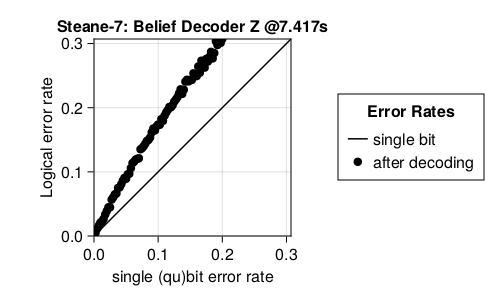
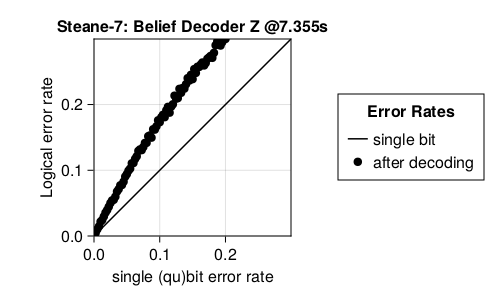
changes to page dicts

diff --git a/docs/codes/Steane-7.md b/docs/codes/Steane-7.md
@@ -1,18 +1,17 @@
 # Steane-7
 
 ## Description
- - The Steane code is a quantum error-correcting code that encodes a single 
-        logical qubit into seven physical qubits. It is designed to correct for any single qubit error, 
-        which includes both bit-flip (analogous to classical bit errors) and phase-flip (a uniquely quantum error) errors.
+ - The Steane code is a quantum error-correcting code that encodes a single logical qubit into seven physical qubits.
+ - This code is designed to correct for any single qubit error, which includes both bit-flip (analogous to classical bit errors) and phase-flip (a uniquely quantum error) errors.
 
 ## Example
 Code Tableau:
 ___XXXX
-        _XX__XX
-        X_X_X_X
-        ___ZZZZ
-        _ZZ__ZZ
-        Z_Z_Z_Z
+_XX__XX
+X_X_X_X
+___ZZZZ
+_ZZ__ZZ
+Z_Z_Z_Z
 - Number of qubits: N = 7
 - Number of encoded bits: k = 1
 ### Syndrome Circuit:
@@ -20,16 +19,17 @@ ___XXXX
 
 ## Benchmarking Results
 This code was tested with the following decoders:
-**Lookup table:** Ran in 0.389s
+**Lookup table:** Ran in 0.4369s
 ![Steane-7 Truth Table PP](images\performanceplots\Steane-7-lookuptable.png)
-**Belief decoder:** Ran in 7.417s
+**Belief decoder:** Ran in 7.355s
 ![Steane-7 Belief Decoder PP](images\performanceplots\Steane-7-belief.png)
 
 ## 
 
+## ["QASM Downloads", "[QASM Encoding Circuit](QASMDownloads\\Steane-7-encodingCircuit.qasm)"]
+
 ## Similar Codes 
-- **[]()**: 
-- **[]()**: 
+- **[Shor-9](https://math.mit.edu/~shor/papers/good-codes.pdf)**: Degenerate CSS code designed to account for parity errors
 
 ## References
-, , 
+Andrew Steane, Multiple Particle Interference and Quantum Error Correction, Proc.Roy.Soc.Lond. A452 (1996) 2551, [DOI](https://doi.org/https://doi.org/10.1098/rspa.1996.0136)

diff --git a/docs/codes/Bicycle.md b/docs/codes/Bicycle.md
@@ -1,17 +1,16 @@
 # Bicycle
 
 ## Description
- - This is a test code
- - Description 1
- - Description 2
- - Description 3
+ - This LDPC code is based on circulant matrices of difference sets.
+ - The difference should satisfy the property that each every difference (modulo N/2) in the set occurs at most once
+ - This is a CSS code where each sub-matrix is constructed from the circulant and it's transpose horizontally contatinated. This sub-matrix then has some of it's rows removed while trying to keep the number of checks per column the same.
 
 ## Example
 Code Tableau:
 XX_XX_X
-        X__XXX_
-        ZZ_ZZ_Z
-        Z__ZZZ_
+X__XXX_
+ZZ_ZZ_Z
+Z__ZZZ_
 - Number of qubits: N = 7
 - Number of encoded bits: k = 3
 ### Syndrome Circuit:
@@ -19,16 +18,17 @@ XX_XX_X
 
 ## Benchmarking Results
 This code was tested with the following decoders:
-**Lookup table:** Ran in 0.39s
+**Lookup table:** Ran in 0.362s
 ![Bicycle Truth Table PP](images\performanceplots\Bicycle-lookuptable.png)
-**Belief decoder:** Ran in 13.31s
+**Belief decoder:** Ran in 13.78s
 ![Bicycle Belief Decoder PP](images\performanceplots\Bicycle-belief.png)
 
 ## 
 
+## ["QASM Downloads", "[QASM Encoding Circuit](QASMDownloads\\Bicycle-encodingCircuit.qasm)"]
+
 ## Similar Codes 
-- **[]()**: 
-- **[]()**: 
+- **[Unicycle Codes](https://arxiv.org/abs/quant-ph/0304161)**: Circulant code based on perfect difference sets
 
 ## References
-, , 
+David J.C. MacKay, Graeme Mitchison, Paul L. McFadden, Sparse Graph Codes for Quantum Error-Correction, IEEE Transactions on Information Theory, Vol. 50, No. 10, p. 2315 (2004), [DOI](https://doi.org/https://ieeexplore.ieee.org/document/1337106)
